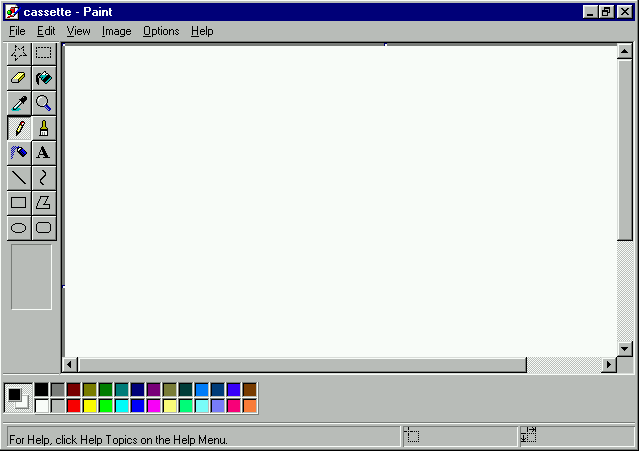
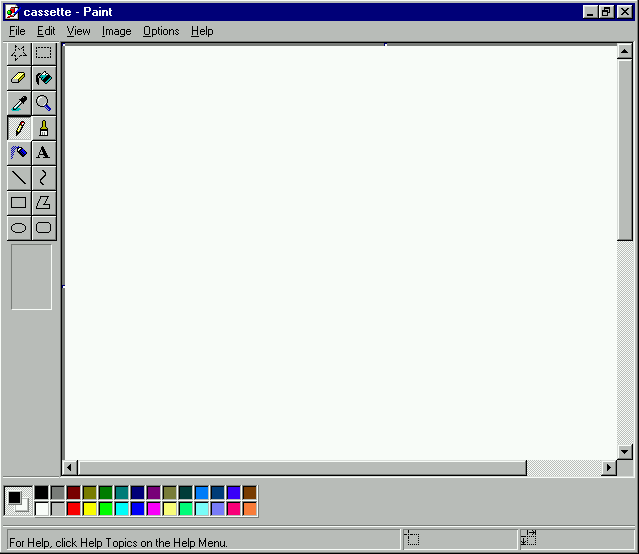
Resized MS paint container for 4:3 aspect ratio

Changed region(s): [[0.0, 0.4346, 1.0, 1.0], [0.0, 0.0, 1.0, 0.5898]]

diff --git a/tst.css b/tst.css
@@ -129,9 +129,9 @@ body {
 /*Image ratio w:h 552:311 i.e. 1.7749, this is very close to standard HD resolution*/
 .paint-container .ms-paint-product-image {
     left: 10.17%;
-    top: 10.2%;
+    top: 8.2%;
     width: 86.38%;
-    height: 68.96%;
+    height: auto;
     position: absolute;
 }
 
